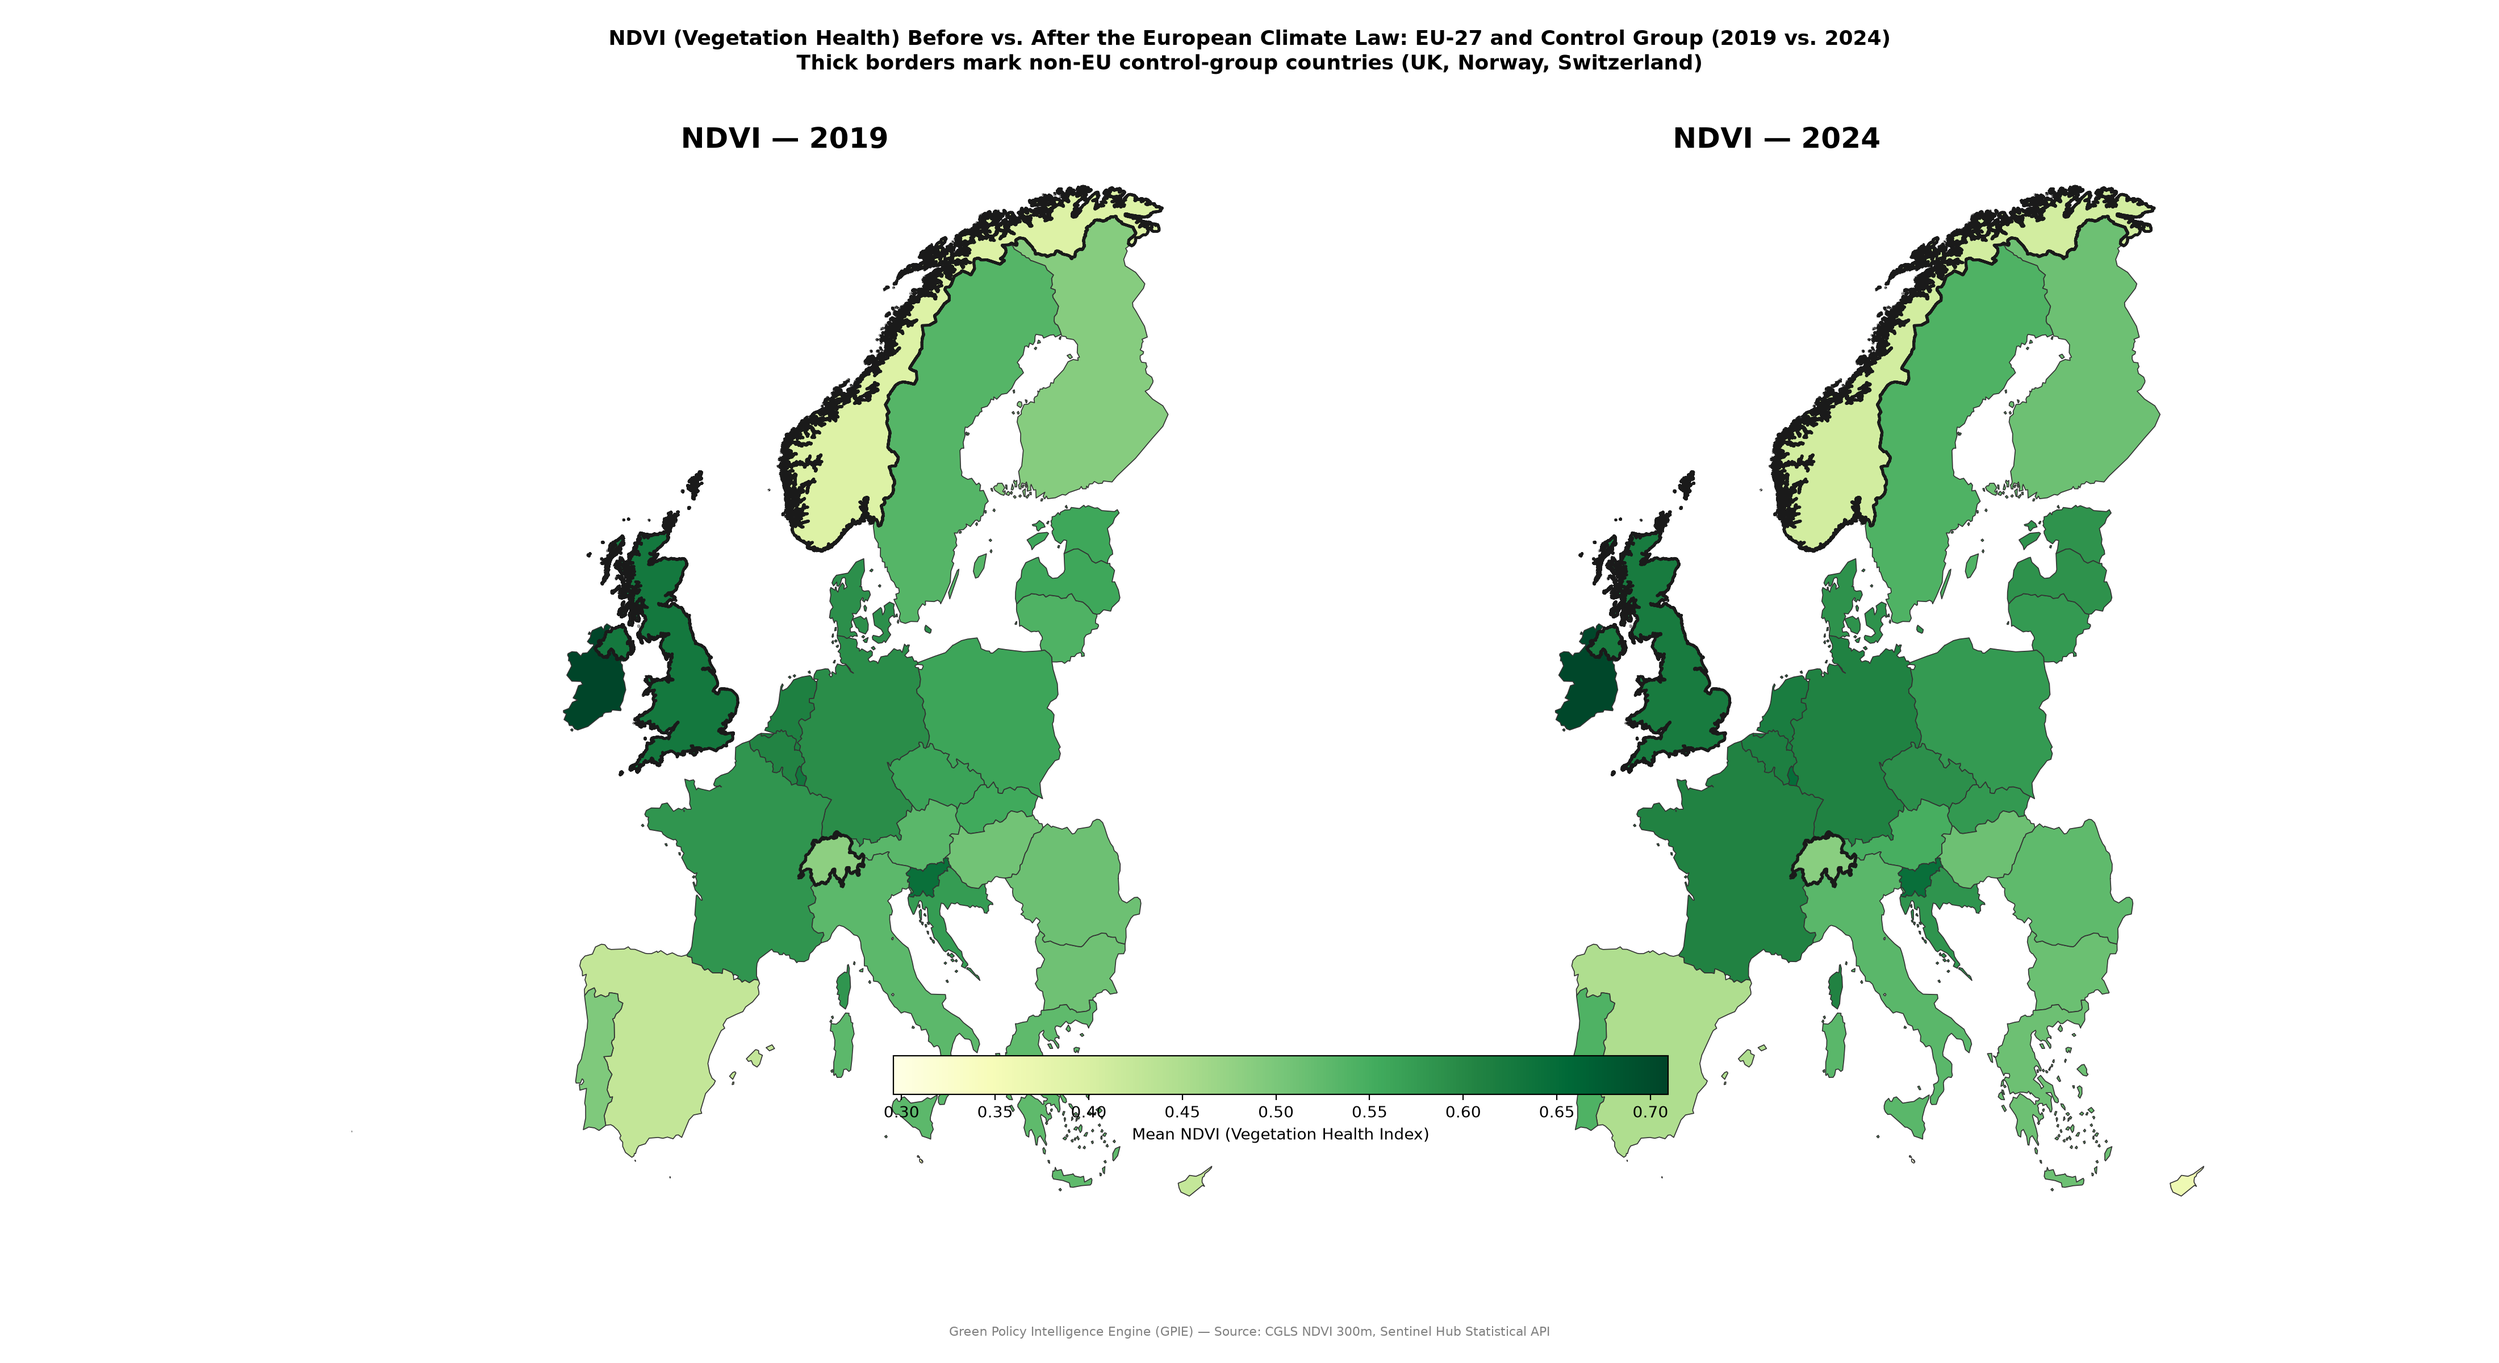
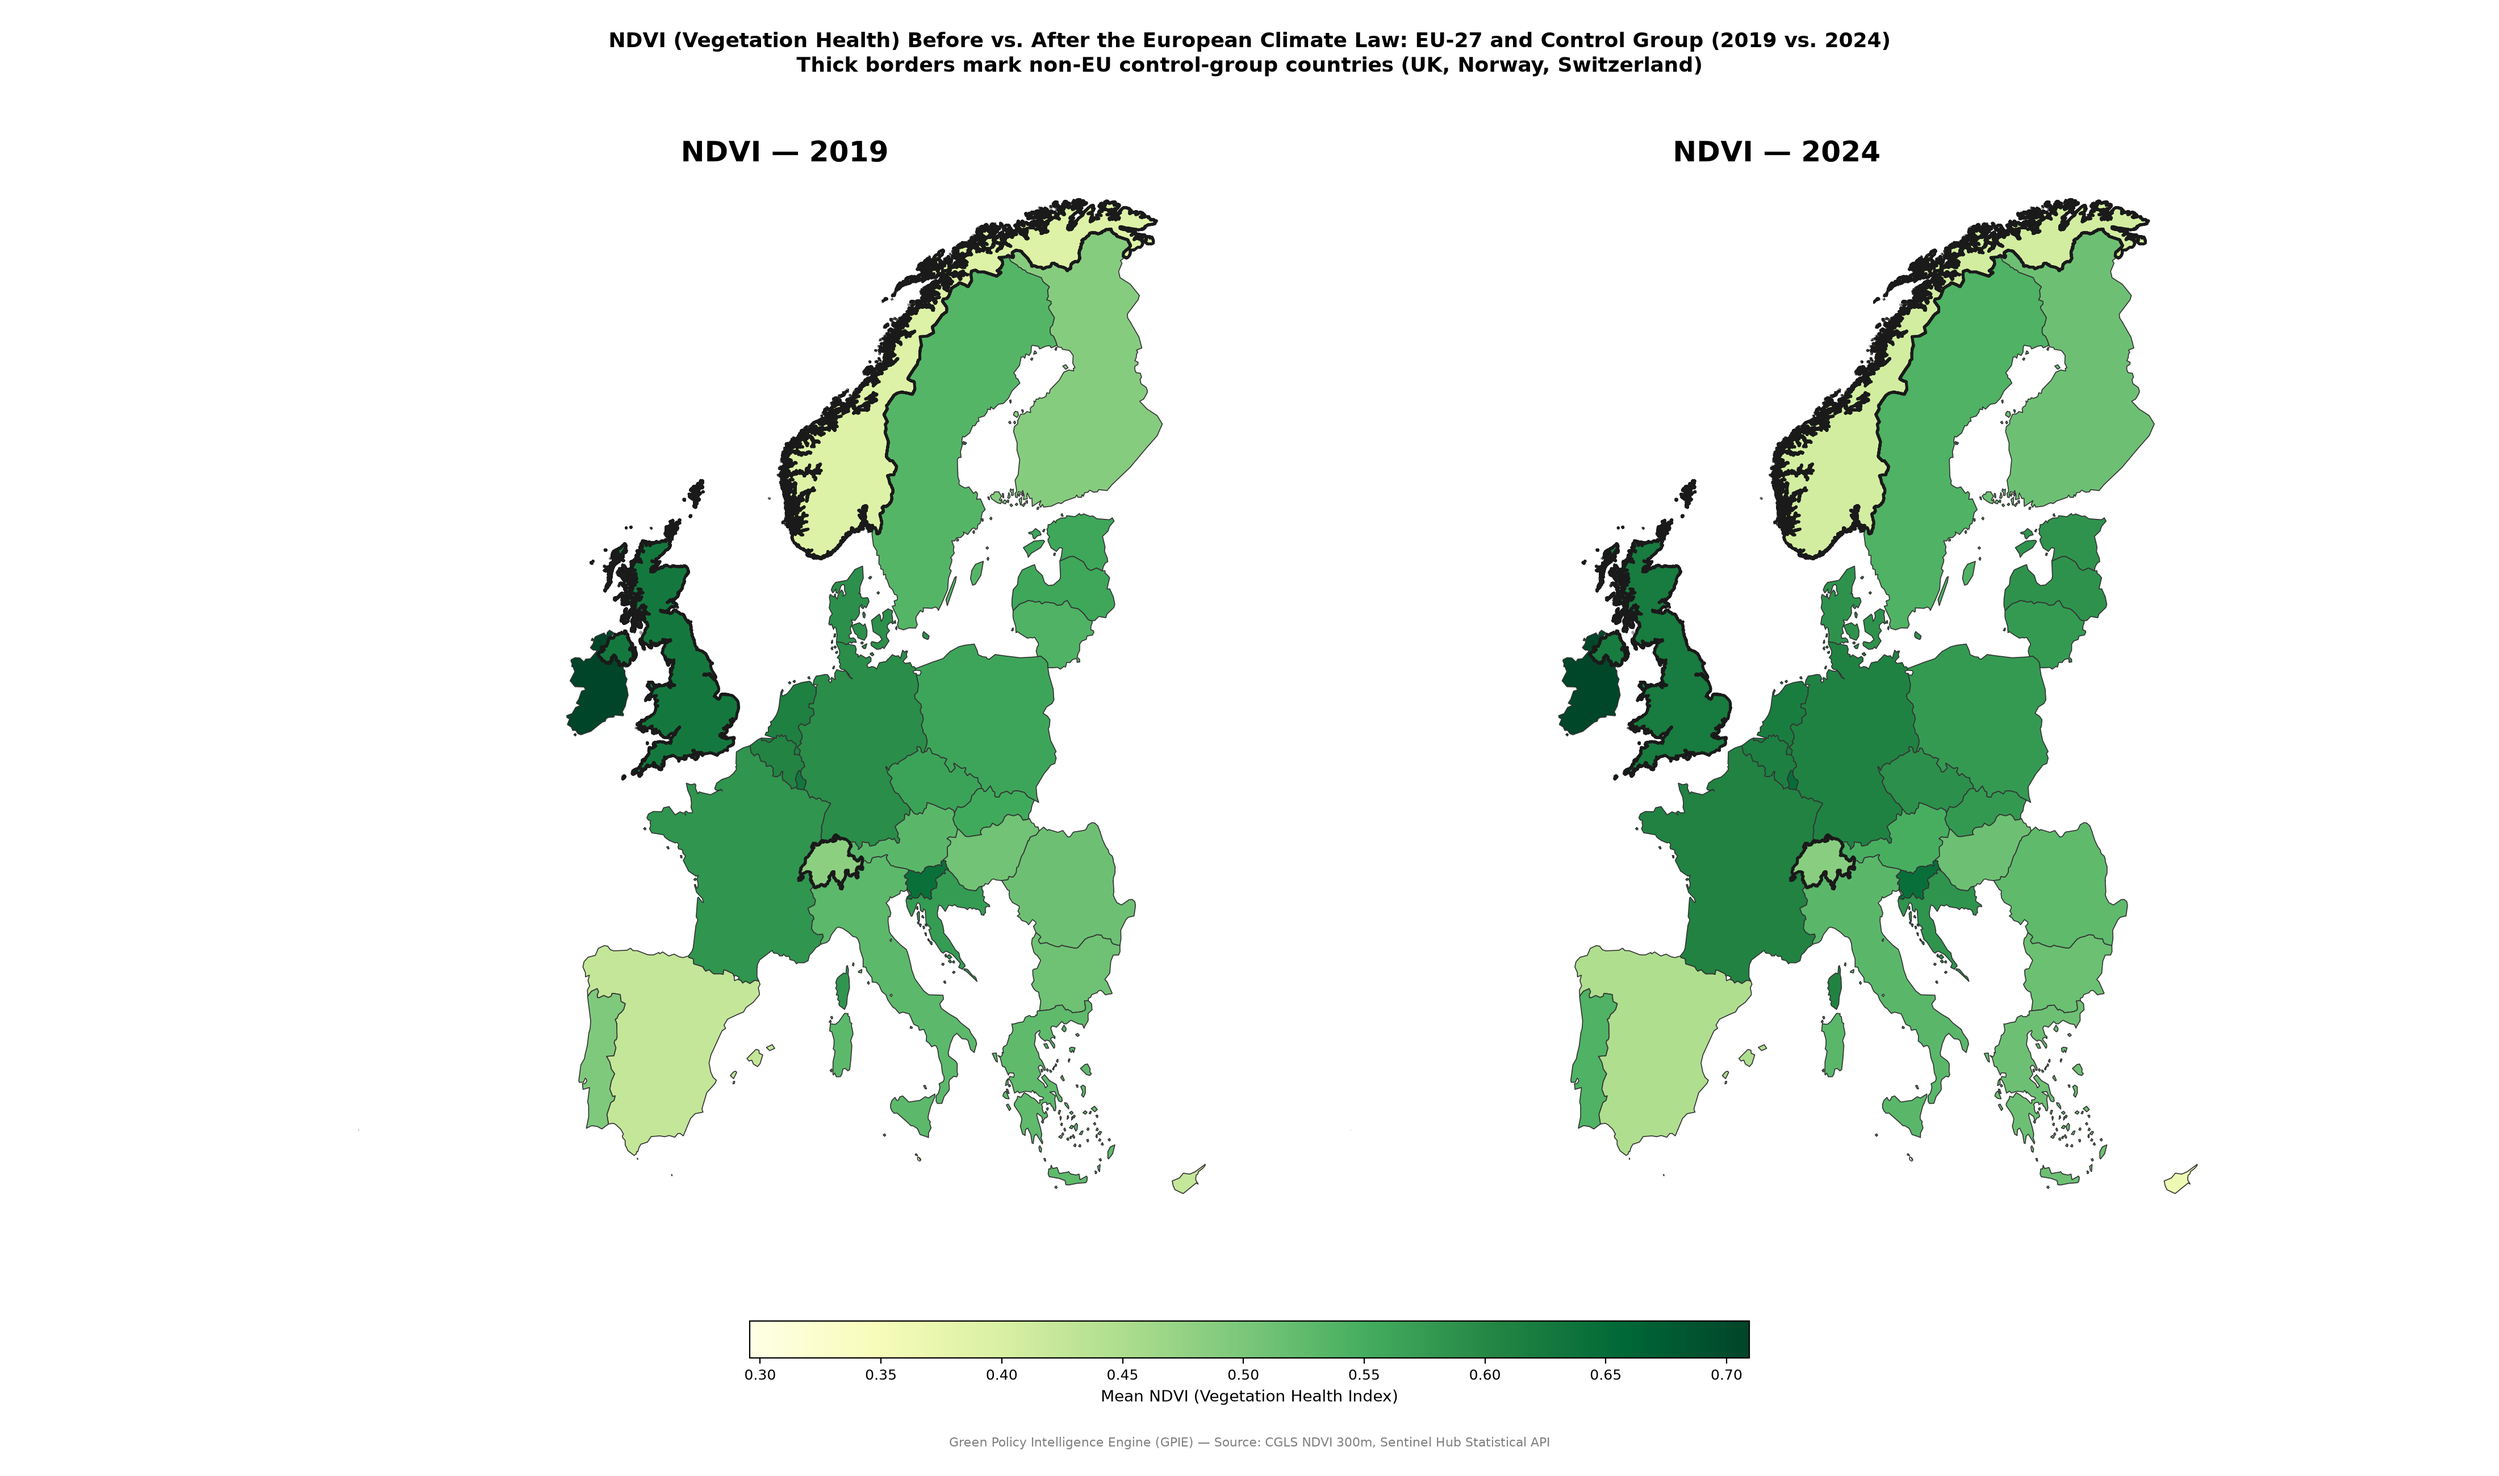
Fix NDVI colorbar spacing

diff --git a/map_ndvi_before_after.py b/map_ndvi_before_after.py
@@ -55,13 +55,12 @@ def make_map():
 
     merged = gdf.merge(ndvi_2019, on="country", how="left").merge(ndvi_2024, on="country", how="left")
 
-    # Shared color scale across both panels for direct visual comparability
     vmin = min(merged["ndvi_2019"].min(), merged["ndvi_2024"].min())
     vmax = max(merged["ndvi_2019"].max(), merged["ndvi_2024"].max())
 
     bounds = (-25, 34, 35, 72)
 
-    fig, axes = plt.subplots(1, 2, figsize=(22, 12))
+    fig, axes = plt.subplots(1, 2, figsize=(22, 13))
 
     for ax, col, year_label in zip(axes, ["ndvi_2019", "ndvi_2024"], ["2019", "2024"]):
         merged.plot(
@@ -82,22 +81,24 @@ def make_map():
         ax.set_axis_off()
         ax.set_title(f"NDVI — {year_label}", fontsize=18, fontweight="bold", pad=10)
 
-    sm = plt.cm.ScalarMappable(cmap="YlGn", norm=plt.Normalize(vmin=vmin, vmax=vmax))
-    sm._A = []
-    cbar = fig.colorbar(sm, ax=axes, orientation="horizontal", shrink=0.4, pad=0.04)
-    cbar.set_label("Mean NDVI (Vegetation Health Index)", fontsize=10)
-    cbar.ax.tick_params(labelsize=10)
-
     fig.suptitle(
         "NDVI (Vegetation Health) Before vs. After the European Climate Law: EU-27 and Control Group (2019 vs. 2024)\n"
         "Thick borders mark non-EU control-group countries (UK, Norway, Switzerland)",
-        fontsize=13, fontweight="bold"
+        fontsize=13, fontweight="bold", y=0.98
     )
+
+    # Colorbar placed in its own reserved space at the bottom, well below the maps
+    fig.subplots_adjust(bottom=0.18, top=0.88, wspace=0.05)
+    cbar_ax = fig.add_axes([0.3, 0.08, 0.4, 0.025])
+    sm = plt.cm.ScalarMappable(cmap="YlGn", norm=plt.Normalize(vmin=vmin, vmax=vmax))
+    sm._A = []
+    cbar = fig.colorbar(sm, cax=cbar_ax, orientation="horizontal")
+    cbar.set_label("Mean NDVI (Vegetation Health Index)", fontsize=10)
+    cbar.ax.tick_params(labelsize=9)
 
     plt.figtext(0.5, 0.02, "Green Policy Intelligence Engine (GPIE) — Source: CGLS NDVI 300m, Sentinel Hub Statistical API",
                 ha="center", fontsize=8, color="gray")
 
-    plt.subplots_adjust(wspace=0.05)
     plt.savefig(OUTPUT_PATH, dpi=200)
     print(f"Saved: {OUTPUT_PATH}")
 
